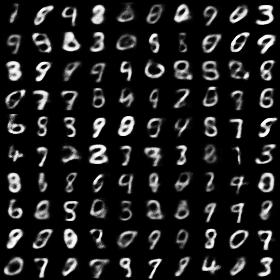
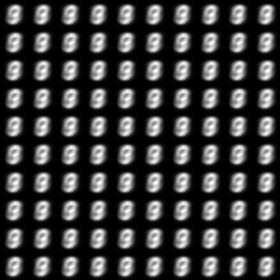
refactoring and fixed adam

diff --git a/ssvae/m1_gvae.py b/ssvae/m1_gvae.py
@@ -2,14 +2,15 @@
 # -*- coding: utf-8 -*-
 
 
-import math
 import numpy as np
-from collections import OrderedDict
 import theano
 import theano.tensor as T
 from theano.tensor.shared_randomstreams import RandomStreams
 
 from mlp import Layer
+
+def shared32(x):
+    return theano.shared(x).astype(theano.config.floatX)
 
 class M1_GVAE(object):
     def __init__(
@@ -35,15 +36,27 @@ class M1_GVAE(object):
         self.encode_main = None
 
 
+    def relu(self, x): return x*(x>0) + 0.01 * x
+    def softplus(self, x): return T.log(T.exp(x) + 1)
 
     def init_model_params(self, dim_x):
         print 'M1 model params initialize'
+
         dim_z = self.hyper_params['dim_z']
         n_hidden = self.hyper_params['n_hidden'] # [500, 500, 500]
+        n_hidden_recognize = n_hidden
+        n_hidden_generate = n_hidden[::-1]
+
         self.type_px = self.hyper_params['type_px']
-        def relu(x): return x*(x>0) + 0.01 * x
-        def softplus(x): return T.log(T.exp(x) + 1)
-        activation = {'tanh': T.tanh, 'relu': relu, 'softplus': softplus, 'sigmoid': T.nnet.sigmoid, 'none': None}
+
+        activation = {
+            'tanh': T.tanh,
+            'relu': self.relu,
+            'softplus': self.softplus,
+            'sigmoid': T.nnet.sigmoid,
+            'none': None,
+        }
+
         nonlinear_q = activation[self.hyper_params['nonlinear_q']]
         nonlinear_p = activation[self.hyper_params['nonlinear_p']]
         if self.type_px == 'bernoulli':
@@ -52,54 +65,57 @@ class M1_GVAE(object):
             output_f= activation['none']
 
         # Recognize model
-        self.recognize_layers = [Layer((dim_x, n_hidden[0]), function=nonlinear_q)]
-        if len(n_hidden) > 1:
-            self.recognize_layers += [Layer(shape, function=nonlinear_q) for shape in zip(n_hidden[:-1], n_hidden[1:])]
-        self.recognize_mean_layer = Layer((n_hidden[-1], dim_z), function=None)
-        self.recognize_log_sigma_layer = Layer((n_hidden[-1], dim_z), function=None, w_zero=True, b_zero=True)
+        self.recognize_layers = [
+            Layer(param_shape=(dim_x, n_hidden[0]), function=nonlinear_q)
+        ]
+        if len(n_hidden_recognize) > 1:
+            self.recognize_layers += [
+                Layer(param_shape=shape, function=nonlinear_q)
+                for shape in zip(n_hidden_recognize[:-1], n_hidden_recognize[1:])
+            ]
+        self.recognize_mean_layer = Layer(
+            param_shape=(n_hidden_recognize[-1], dim_z),
+            function=None
+        )
+        self.recognize_log_sigma_layer = Layer(
+            param_shape=(n_hidden_recognize[-1], dim_z),
+            function=None,
+            w_zero=True, b_zero=True
+        )
 
 
         # Generate Model
-        self.generate_layers = [Layer((dim_z, n_hidden[0]), function=nonlinear_p)]
+        self.generate_layers = [
+            Layer((dim_z, n_hidden_generate[0]), function=nonlinear_p)
+        ]
         if len(n_hidden) > 1:
-            self.generate_layers += [Layer(shape, function=nonlinear_p) for shape in zip(n_hidden[:-1], n_hidden[1:])]
-        self.generate_mean_layer = Layer((n_hidden[-1], dim_x), function=output_f)
-        self.generate_log_sigma_layer = Layer((n_hidden[-1], dim_x), function=None, b_zero=True)
+            self.generate_layers += [
+                Layer(param_shape=shape, function=nonlinear_p)
+                for shape in zip(n_hidden_generate[:-1], n_hidden_generate[1:])
+            ]
+        self.generate_mean_layer = Layer(
+            param_shape=(n_hidden[-1], dim_x),
+            function=output_f
+        )
+        self.generate_log_sigma_layer = Layer(
+            param_shape=(n_hidden[-1], dim_x),
+            function=None,
+            b_zero=True
+        )
 
-
+        # Add all parameters
         self.model_params_ = (
-            [param for layer in self.generate_layers for param in layer.params] +
+            [param for layer in self.recognize_layers for param in layer.params] +
             self.recognize_mean_layer.params +
             self.recognize_log_sigma_layer.params +
-            [param for layer in self.recognize_layers for param in layer.params] +
+            [param for layer in self.generate_layers for param in layer.params] +
             self.generate_mean_layer.params
         )
 
         if self.type_px == 'gaussian':
             self.model_params_ += self.generate_log_sigma_layer.params
 
-    def generate_model(self, Z):
-
-        for i, layer in enumerate(self.generate_layers):
-            if i == 0:
-                layer_out = layer.fprop(Z)
-            else:
-                layer_out = layer.fprop(layer_out)
-
-        p_mean = self.generate_mean_layer.fprop(layer_out)
-        p_log_var = self.generate_log_sigma_layer.fprop(layer_out)
-
-        return {
-            # 'mu': 0.5 * (T.tanh(p_mean) + 1), # 0 <= mu <= 1
-            # 'log_sigma': 3 * T.tanh(p_log_var) - 1, # -4 <= log sigma **2 <= 2
-            # 'mu': T.clip(p_mean, 0., 1.),
-            # 'log_sigma': T.clip(p_log_var, -4., 2.)
-            'mu': p_mean,
-            'log_sigma': p_log_var
-        }
-
     def recognize_model(self, X):
-
         for i, layer in enumerate(self.recognize_layers):
             if i == 0:
                 layer_out = layer.fprop(X)
@@ -110,165 +126,154 @@ class M1_GVAE(object):
         q_log_var = self.recognize_log_sigma_layer.fprop(layer_out)
 
         return {
-            'mu': q_mean,
-            # 'log_sigma': 3 * T.tanh(q_log_var) - 1,
-            # 'log_sigma': T.clip(q_log_var, -4., 2.)
-            'log_sigma': q_log_var
+            'q_mean': q_mean,
+            'q_log_var': q_log_var,
+            # 'q_log_var': 3 * T.tanh(q_log_var) - 1,
+            # 'q_log_var': T.clip(q_log_var, -4., 2.),
         }
 
-    def decode(self, z):
-        if self.decode_main is None:
-            Z = T.matrix()
-            self.decode_main = theano.function(
-                inputs=[Z],
-                outputs=self.generate_model(Z)['mu']
-            )
-        return self.decode_main(z)
+    def generate_model(self, Z):
+        for i, layer in enumerate(self.generate_layers):
+            if i == 0:
+                layer_out = layer.fprop(Z)
+            else:
+                layer_out = layer.fprop(layer_out)
+
+        p_mean = self.generate_mean_layer.fprop(layer_out)
+        p_log_var = self.generate_log_sigma_layer.fprop(layer_out)
+
+        return {
+            # 'p_mean': 0.5 * (T.tanh(p_mean) + 1), # 0 <= mu <= 1
+            # 'p_log_var': 3 * T.tanh(p_log_var) - 1, # -4 <= log sigma **2 <= 2
+            # 'p_mean': T.clip(p_mean, 0., 1.),
+            # 'p_log_var': T.clip(p_log_var, -4., 2.)
+            'p_mean': p_mean,
+            'p_log_var': p_log_var
+        }
 
     def encode(self, x):
         if self.encode_main is None:
             X = T.matrix()
             self.encode_main = theano.function(
                 inputs=[X],
-                outputs=self.recognize_model(X)['mu']
+                outputs=self.recognize_model(X)['q_mean']
             )
         return self.encode_main(x)
 
+    def decode(self, z):
+        if self.decode_main is None:
+            Z = T.matrix()
+            self.decode_main = theano.function(
+                inputs=[Z],
+                outputs=self.generate_model(Z)['p_mean']
+            )
+        return self.decode_main(z)
+
     def get_expr_lbound(self, X):
-        n_mc_sampling = self.hyper_params['n_mc_sampling']
         n_samples = X.shape[0]
-        dim_z = self.hyper_params['dim_z']
 
-        stats_z = self.recognize_model(X)
-        q_mean = stats_z['mu']
-        q_log_var = stats_z['log_sigma']
+        recognized_zs = self.recognize_model(X)
+        q_mean = recognized_zs['q_mean']
+        q_log_var = recognized_zs['q_log_var']
 
-        eps = self.rng_noise.normal(size=(n_mc_sampling, n_samples, dim_z))
+        eps = self.rng_noise.normal(size=q_mean.shape).astype(theano.config.floatX)
+        # T.exp(0.5 * q_log_var) = std
+        # z = mean_z + std * epsilon
         z_tilda = q_mean + T.exp(0.5 * q_log_var) * eps
 
-        stats_x = self.generate_model(z_tilda)
-        p_mean = stats_x['mu']
-        p_log_var = stats_x['log_sigma']
+        generated_x = self.generate_model(z_tilda)
+        p_mean = generated_x['p_mean']
+        p_log_var = generated_x['p_log_var']
 
         if self.type_px == 'gaussian':
             log_p_x_given_z = (
-                -0.5 * np.log(2 * np.pi) - 0.5 * p_log_var - 0.5 * (X - p_mean) ** 2 / (2 * T.exp(p_log_var))
+                - 0.5 * np.log(2 * np.pi) -
+                0.5 * p_log_var -
+                0.5 * (X - p_mean) ** 2 / (2 * T.exp(p_log_var))
             )
         elif self.type_px == 'bernoulli':
-            log_p_x_given_z = X * T.log(p_mean) + (1 - X) * T.log(1 - p_mean)
+            log_p_x_given_z = T.sum(X * T.log(p_mean) + (1 - X) * T.log(1 - p_mean), axis=1)
 
-        logqz = - 0.5 * T.sum(np.log(2 * np.pi) + 1 + q_log_var)
-        logpz = - 0.5 * T.sum(np.log(2 * np.pi) + q_mean ** 2 + T.exp(q_log_var))
-        consts = []
+        # logqz = - 0.5 * T.sum(np.log(2 * np.pi) + 1 + q_log_var)
+        # logpz = - 0.5 * T.sum(np.log(2 * np.pi) + q_mean ** 2 + T.exp(q_log_var))
+        logqz = - 0.5 * T.sum(1 + q_log_var, axis=1)
+        logpz = - 0.5 * T.sum(q_mean ** 2 + T.exp(q_log_var), axis=1)
 
-        return (T.sum(log_p_x_given_z) / n_mc_sampling + (logpz - logqz)) / n_samples, consts
-
+        # return (T.sum(log_p_x_given_z) + T.sum(logpz - logqz)) / n_samples,
+        return log_p_x_given_z, logpz, logqz
 
     def fit(self, x_datas):
         X = T.matrix()
         self.rng_noise = RandomStreams(self.hyper_params['rng_seed'])
         self.init_model_params(dim_x=x_datas.shape[1])
 
-        lbound, consts = self.get_expr_lbound(X)
-        cost = -lbound
+        logpx, logpz, logqz = self.get_expr_lbound(X)
+        L = T.sum(logpx + logpz + logqz)
 
         print 'start fitting'
-        self.hist = self.adam_calc(
-            x_datas,
-            cost,
-            consts,
+        gparams = T.grad(
+            cost=L,
+            wrt=self.model_params_
+        )
+        updates = self.adam(self.model_params_, gparams, self.adagrad_params)
+        self.hist = self.optimize(
             X,
-            self.model_params_,
+            x_datas,
             self.adagrad_params,
-            self.rng
+            L,
+            updates,
+            self.rng,
         )
 
-    def adagrad_calc(self, x_datas, cost, consts, X, model_params, hyper_params, rng):
-        n_iters = hyper_params['n_iters']
+    def adagrad(self, params, gparams, hyper_params):
         learning_rate = hyper_params['learning_rate']
-        minibatch_size = hyper_params['minibatch_size']
-        n_mod_history = hyper_params['n_mod_history']
-        calc_history = hyper_params['calc_history']
 
-        hs = [theano.shared(np.ones(
+        hs = [theano.shared(np.zeros(
                     param.get_value(borrow=True).shape
                 ).astype(theano.config.floatX))
-            for param in model_params]
+            for param in params]
 
-        gparams = T.grad(
-            cost=cost,
-            wrt=model_params,
-            consider_constant=consts
-        )
-        updates = [(param, param - learning_rate / (T.sqrt(h)) * gparam)
-                    for param, gparam, h in zip(model_params, gparams, hs)]
+        updates = [(param, param + learning_rate / (T.sqrt(h) + 1) * gparam)
+                    for param, gparam, h in zip(params, gparams, hs)]
         updates += [(h, h + gparam ** 2) for gparam, h in zip(gparams, hs)]
+        return updates
 
-        train = theano.function(
-            inputs=[X],
-            outputs=cost,
-            updates=updates
-        )
-
-        validate = theano.function(
-            inputs=[X],
-            outputs=cost
-        )
-
-        n_samples = x_datas.shape[0]
-        cost_history = []
-
-        for i in xrange(n_iters):
-            ixs = rng.permutation(n_samples)[:minibatch_size]
-            minibatch_cost = train(x_datas[ixs])
-            # print minibatch_cost
-
-            if np.mod(i, n_mod_history) == 0:
-                print '%d epoch error: %f' % (i, minibatch_cost)
-                if calc_history == 'minibatch':
-                    cost_history.append((i, minibatch_cost))
-                else:
-                    cost_history.append((i, validate(x_datas[ixs])))
-        return cost_history
-
-
-    def adam_calc(self, x_datas, cost, consts, X, model_params, hyper_params, rng):
-        n_iters = hyper_params['n_iters']
+    def adam(self, params, gparams, hyper_params):
         learning_rate = hyper_params['learning_rate']
-        minibatch_size = hyper_params['minibatch_size']
-        n_mod_history = hyper_params['n_mod_history']
-        calc_history = hyper_params['calc_history']
 
         rs = [theano.shared(np.ones(
                     param.get_value(borrow=True).shape
                 ).astype(theano.config.floatX))
-            for param in model_params]
+            for param in params]
         vs = [theano.shared(np.ones(
                     param.get_value(borrow=True).shape
                 ).astype(theano.config.floatX))
-            for param in model_params]
+            for param in params]
         ts = [theano.shared(np.ones(
                     param.get_value(borrow=True).shape
                 ).astype(theano.config.floatX))
-            for param in model_params]
+            for param in params]
 
         gnma = 0.999
         beta = 0.9
         weight_decay = 1000 / 50000.
 
-        gparams = T.grad(
-            cost=cost,
-            wrt=model_params,
-            consider_constant=consts
-        )
-
-
-        updates = [(param, param - learning_rate / (T.sqrt(r / (1 - gnma ** t))) * v / (1 - beta ** t))
-                    for param, r, v, t  in zip(model_params, rs, vs, ts)]
-        updates += [(r, gnma * r + (1- gnma) * (gparam - weight_decay * param) ** 2) for param, gparam, r in zip(model_params, gparams, rs)]
-        updates += [(v, beta * v + (1- beta) * (gparam - weight_decay * param)) for param, gparam, v in zip(model_params, gparams, vs)]
+        updates = [
+            (param,
+             param + learning_rate / (T.sqrt(r / (1 - gnma ** t))) * v / (1 - beta ** t))
+             for param, r, v, t  in zip(params, rs, vs, ts)]
+        updates += [(r, gnma * r + (1- gnma) * (gparam - weight_decay * param) ** 2) for param, gparam, r in zip(params, gparams, rs)]
+        updates += [(v, beta * v + (1- beta) * (gparam - weight_decay * param)) for param, gparam, v in zip(params, gparams, vs)]
         updates += [(t, t + 1) for t in ts]
+        return updates
 
+
+
+    def optimize(self, X, x_datas, hyper_params, cost, updates, rng):
+        n_iters = hyper_params['n_iters']
+        minibatch_size = hyper_params['minibatch_size']
+        n_mod_history = hyper_params['n_mod_history']
+        calc_history = hyper_params['calc_history']
 
         train = theano.function(
             inputs=[X],
